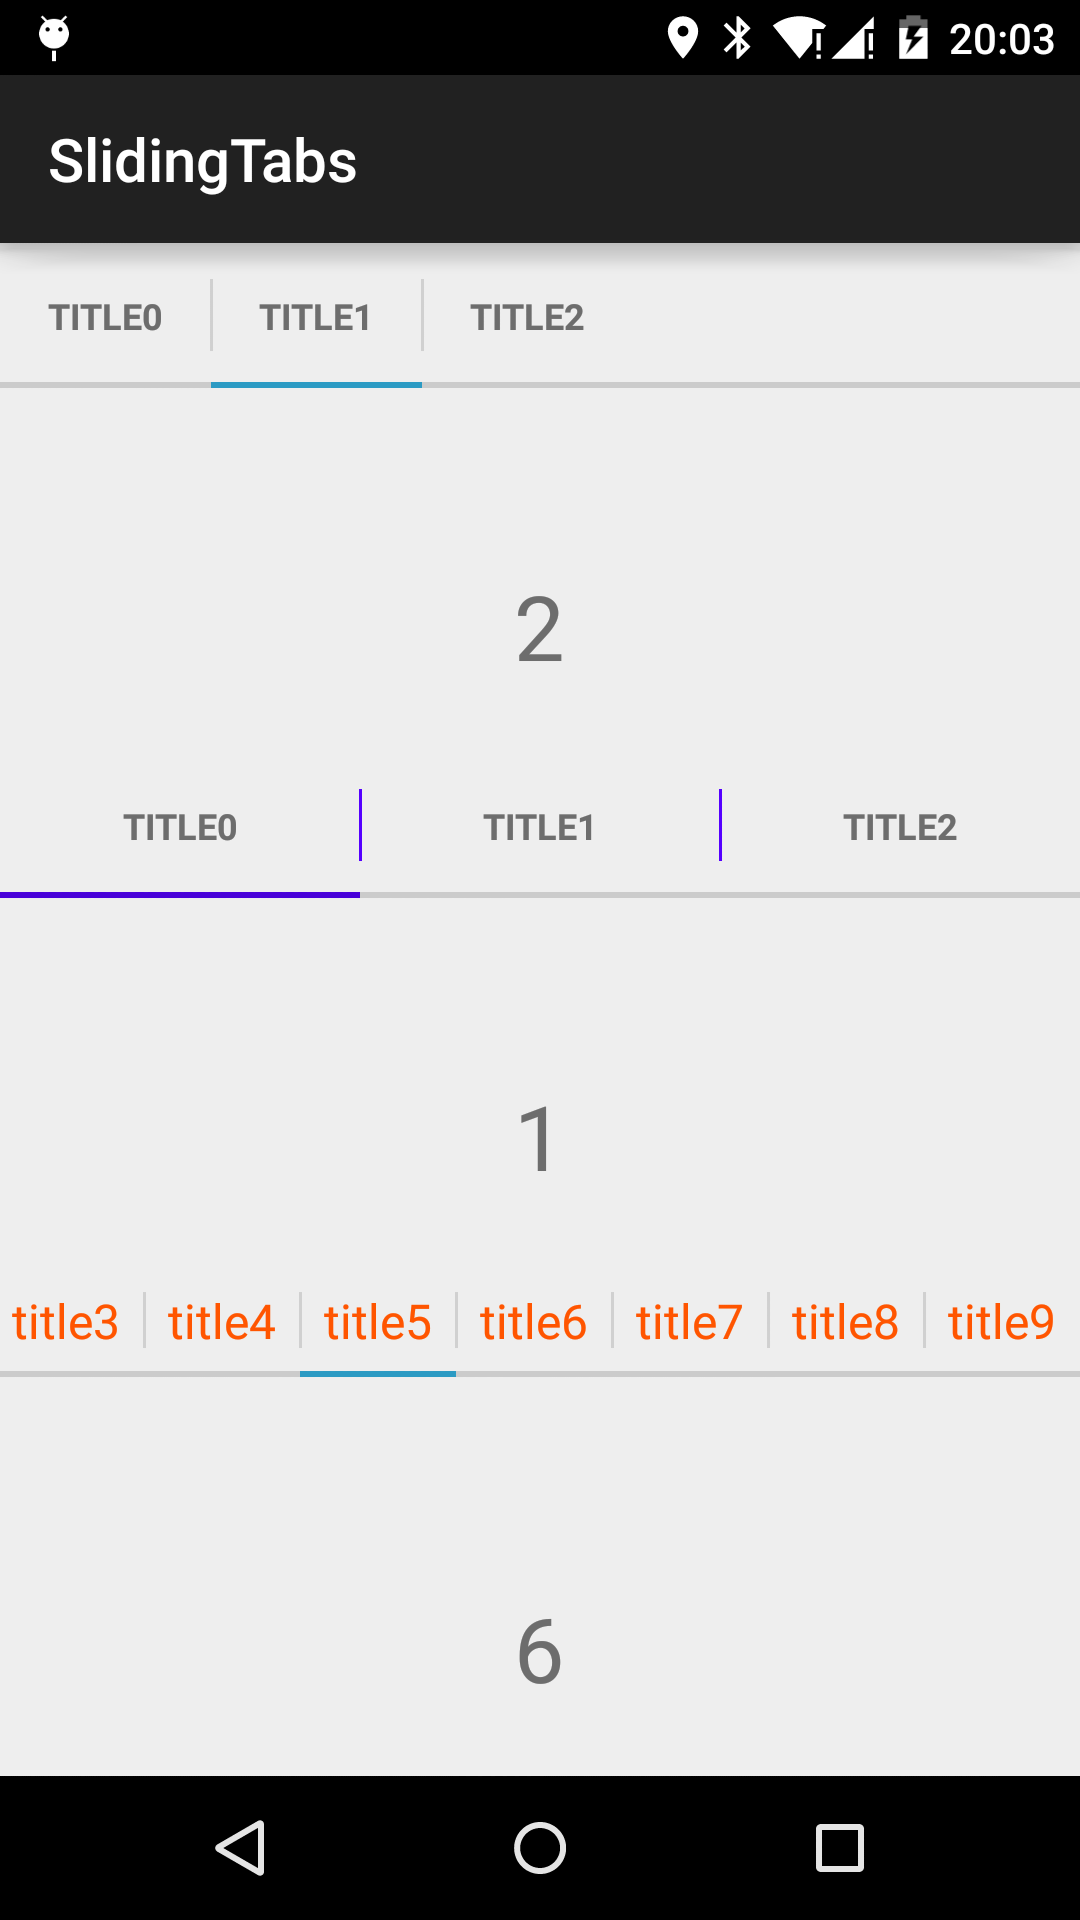
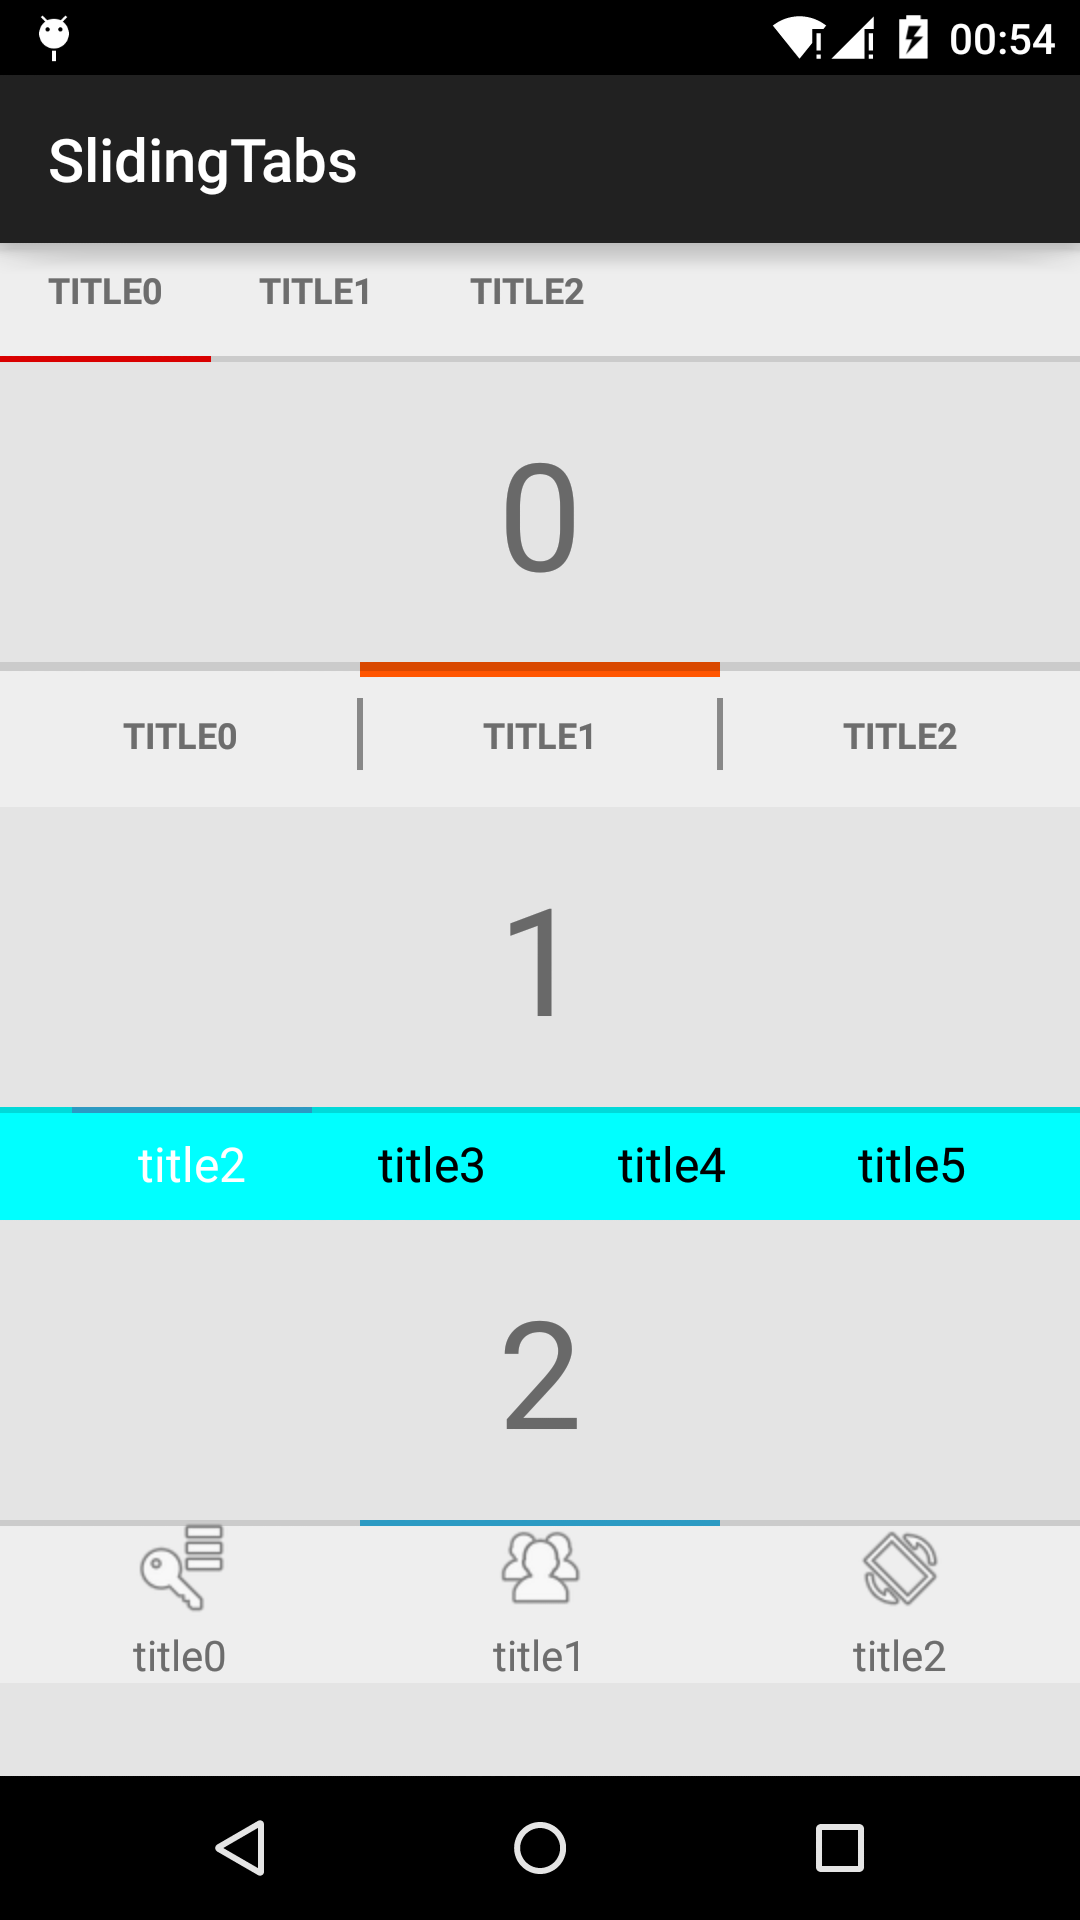
sliding refactor

diff --git a/README.md b/README.md
@@ -2,12 +2,28 @@
 
 SlidingTabs from [google android samples](http://developer.android.com/samples/SlidingTabsBasic/index.html)
 
-##add
+##added method
 
 set tabs fill the viewport
 
     SlidingTabLayout#setDistributeEvenly(boolean)
 
+draw indicator bar [TOP|BOTTOM]
+
+    setIndicatorBarGravity(int indicatorBarGravity)
+
+
+whether draw divider or not
+
+    setDividerEnable(boolean enable)
+
+customize tabstrip size
+
+    setmCustomTabSizer(SlidingTabLayout.TabSizer tabSizer)
+
+customize tabview
+
+    setSlidingTabAdapter(SlidingTabAdapter slidingTabAdapter)
 
 
 ##demo
